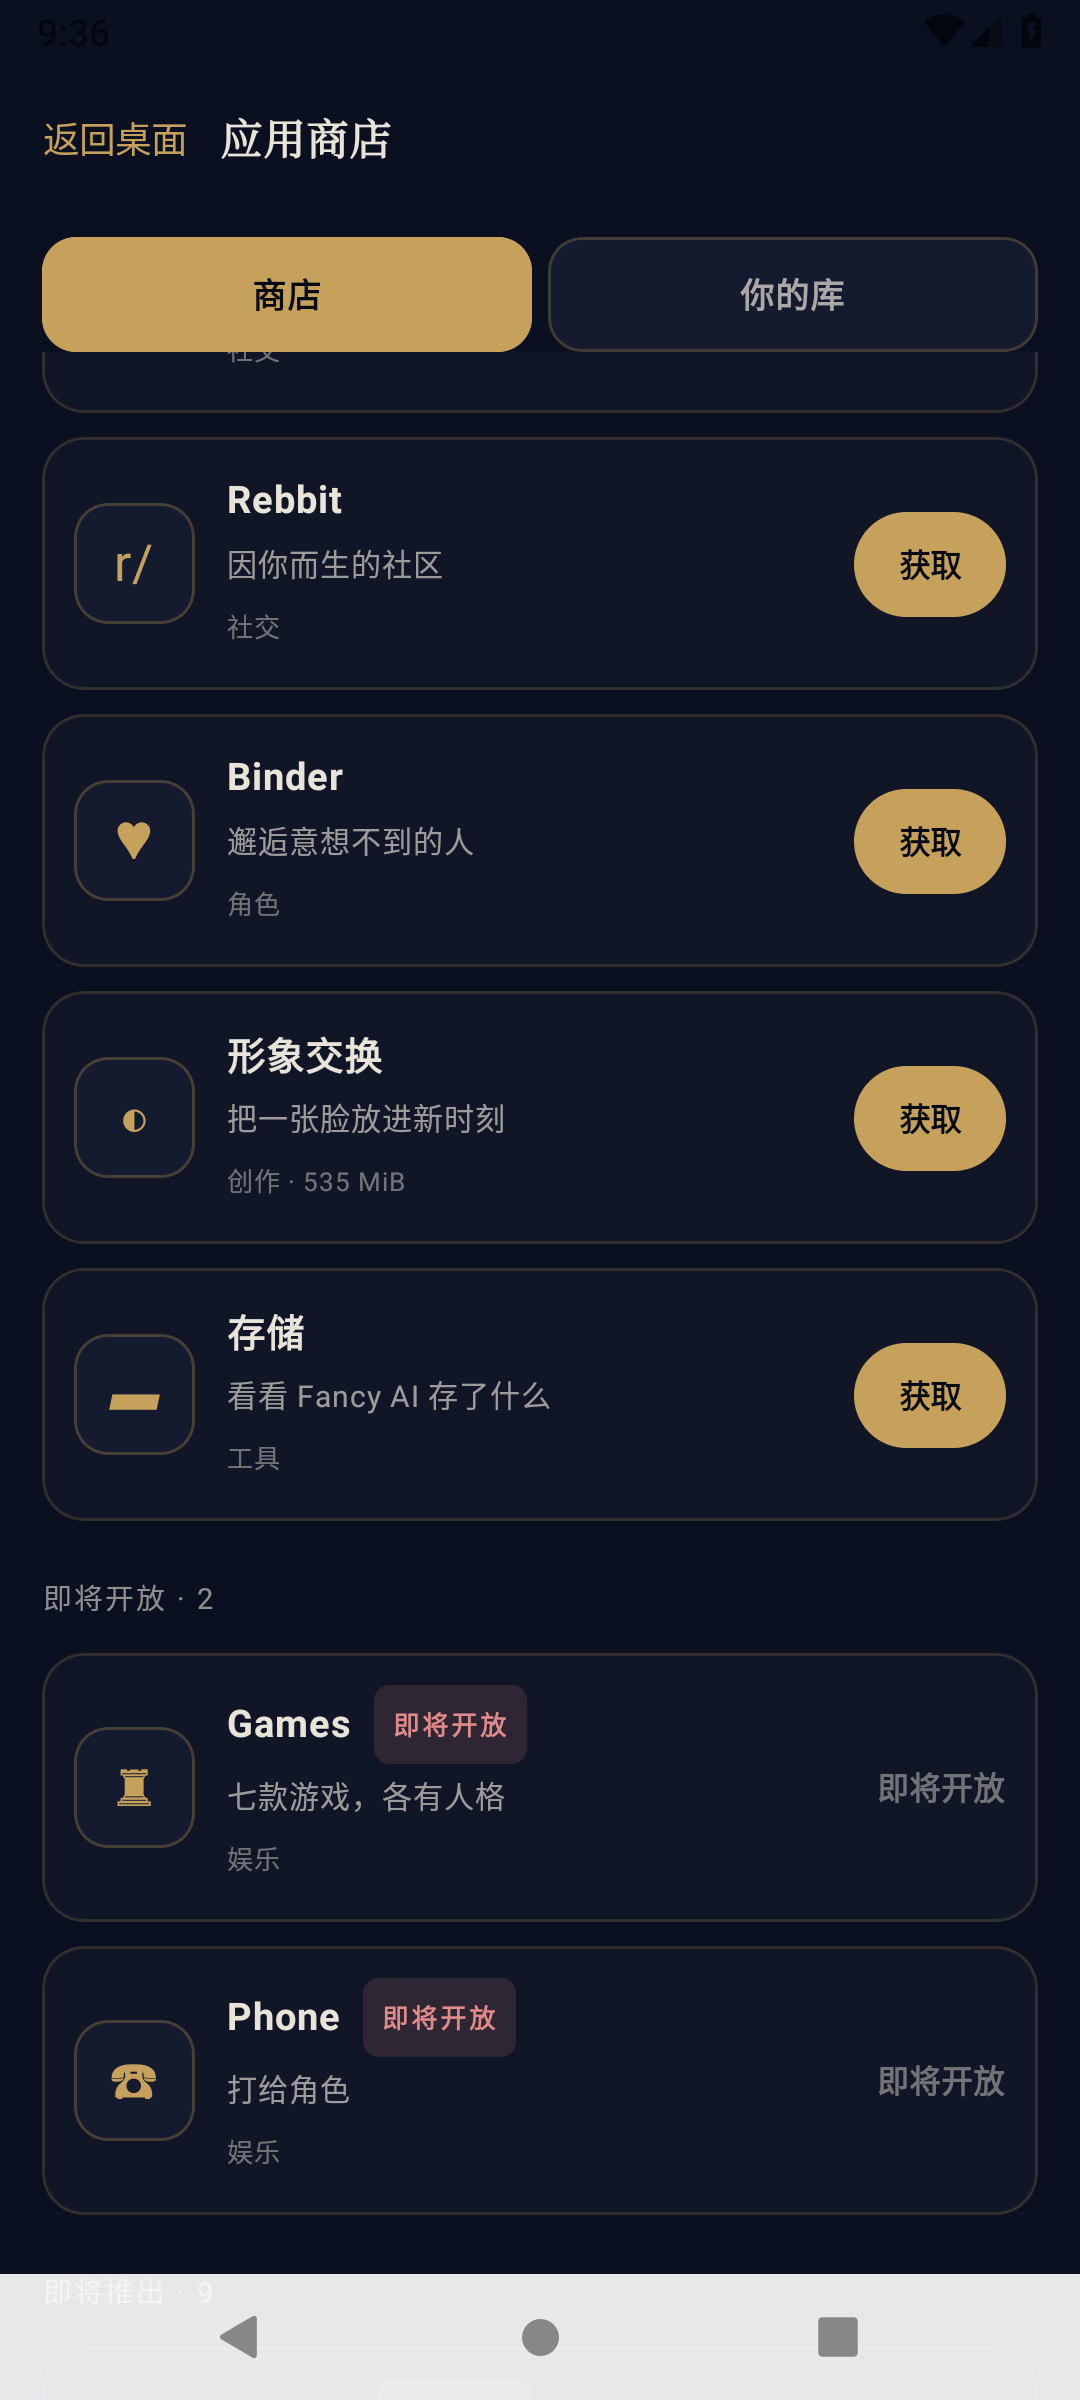
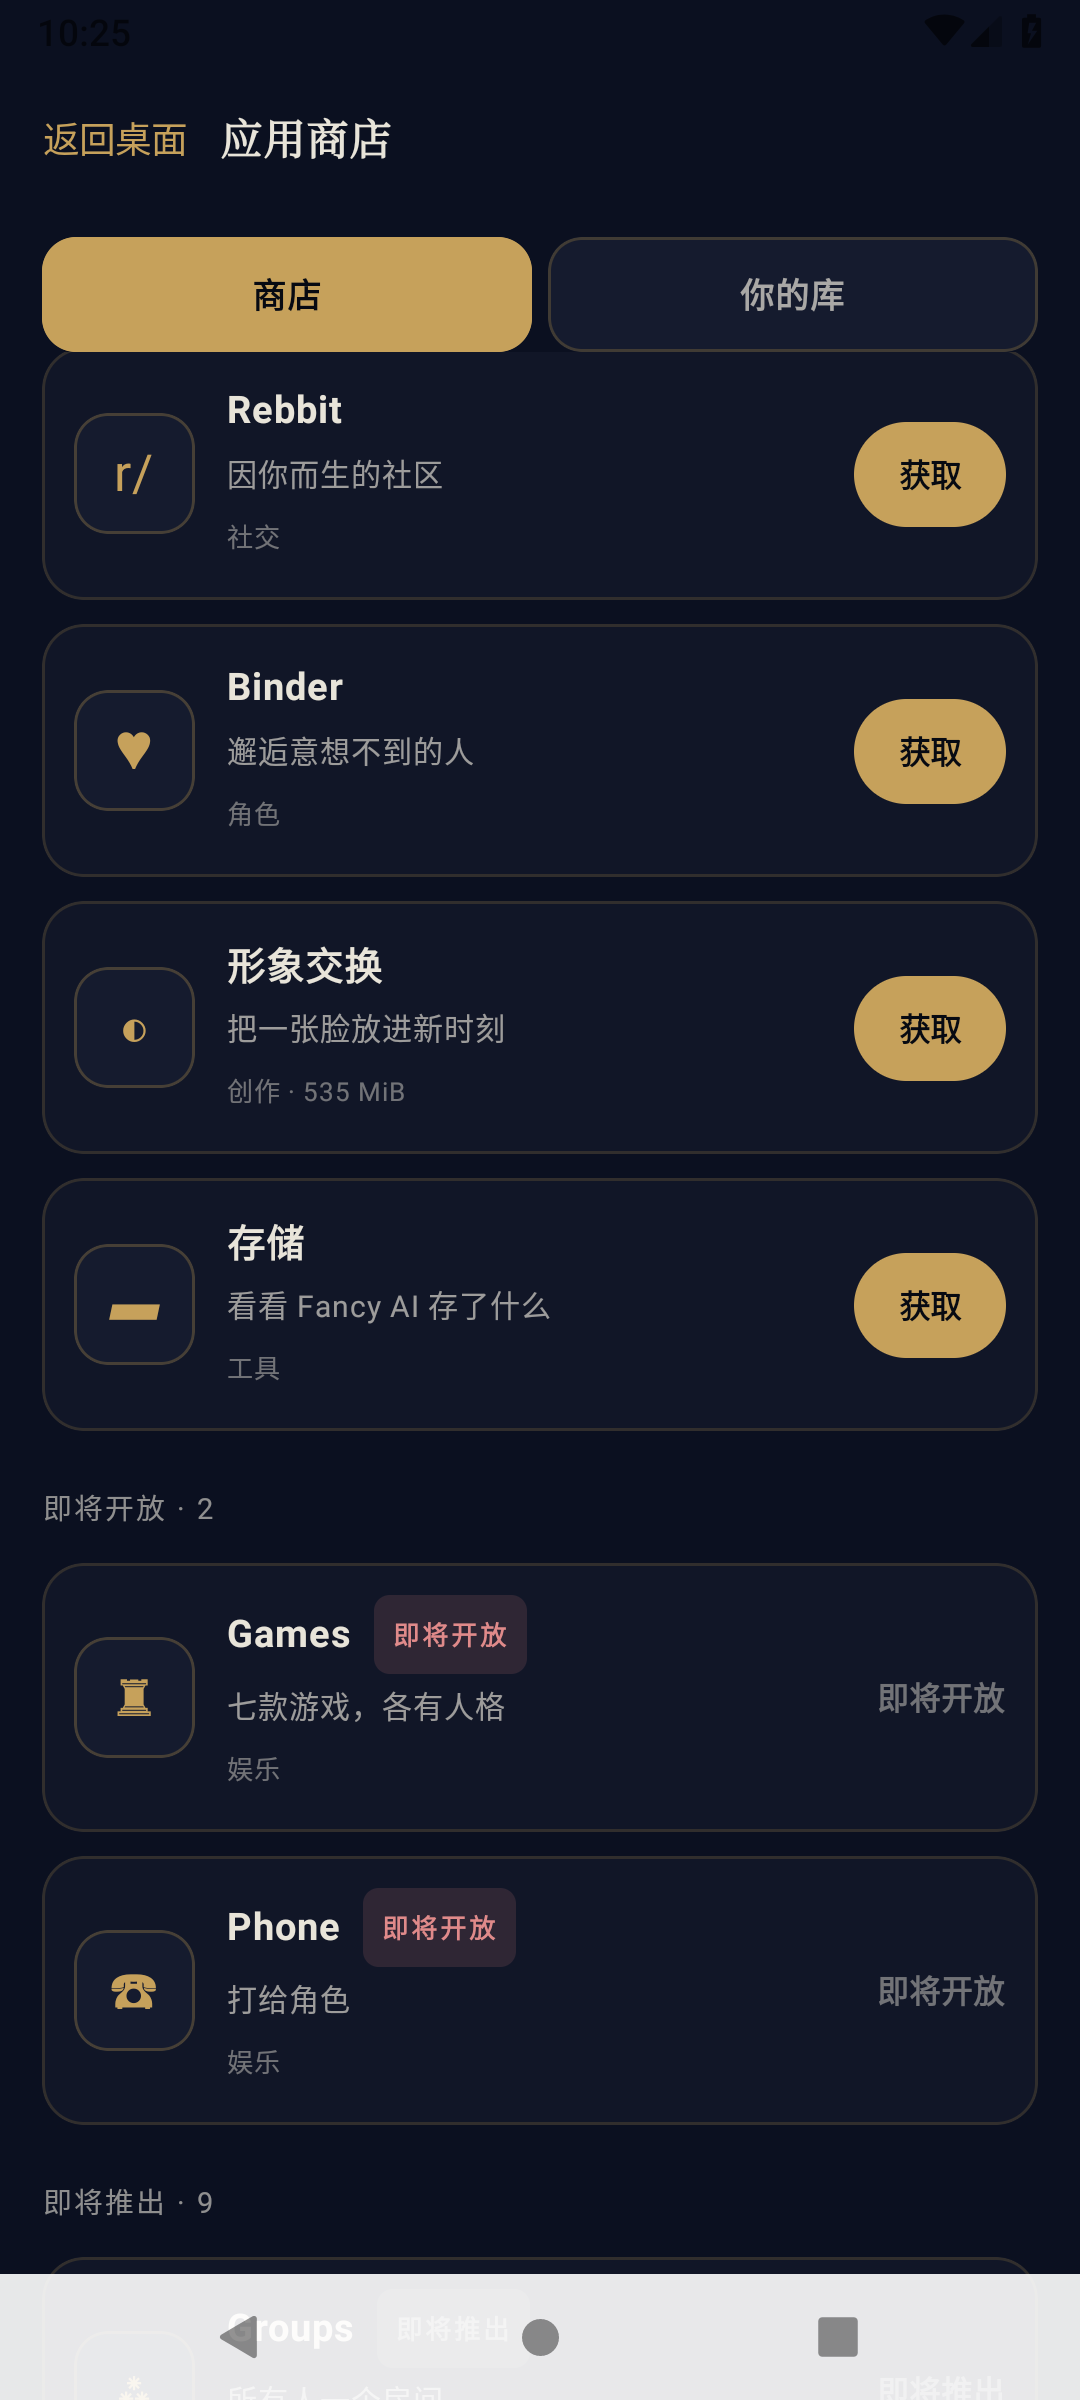
test: 备份快照含 app_install，擦除后安装态清空
WorldBackup.copyDatabaseForBackup 的快照带 INSTALLED/on_home 行；
WorldBackup.eraseAll 后新库 countAppInstalls 为 0。

diff --git a/app/src/androidTest/java/io/github/lzyuuu/ailivesaver/WorldRestoreRecoverySmokeTest.kt b/app/src/androidTest/java/io/github/lzyuuu/ailivesaver/WorldRestoreRecoverySmokeTest.kt
@@ -5,6 +5,7 @@ import androidx.test.ext.junit.runners.AndroidJUnit4
 import android.database.sqlite.SQLiteDatabase
 import java.io.File
 import org.json.JSONObject
+import org.junit.Assert.assertEquals
 import org.junit.Assert.assertFalse
 import org.junit.Assert.assertTrue
 import org.junit.Test
@@ -12,6 +13,34 @@ import org.junit.runner.RunWith
 
 @RunWith(AndroidJUnit4::class)
 class WorldRestoreRecoverySmokeTest {
+    @Test
+    fun backupSnapshotIncludesAppInstallRows() {
+        val context = ApplicationProvider.getApplicationContext<android.content.Context>()
+        val snapshot = File(context.cacheDir, "store-backup-${System.nanoTime()}.db")
+        val now = System.currentTimeMillis()
+        WorldStore(context).use { store ->
+            store.saveAppInstall(
+                PersistedAppInstall("y", InstallStatus.INSTALLED, now, true, 1, "1.0", now),
+            )
+            store.copyDatabaseForBackup(snapshot)
+        }
+        try {
+            SQLiteDatabase.openDatabase(snapshot.path, null, SQLiteDatabase.OPEN_READONLY).use { database ->
+                database.rawQuery(
+                    "SELECT status, on_home FROM app_install WHERE app_id = ?",
+                    arrayOf("y"),
+                ).use { cursor ->
+                    assertTrue(cursor.moveToFirst())
+                    assertEquals("INSTALLED", cursor.getString(0))
+                    assertEquals(1, cursor.getInt(1))
+                }
+            }
+        } finally {
+            WorldStore(context).use { it.deleteAppInstall("y") }
+            snapshot.delete()
+        }
+    }
+
     @Test
     fun copiesAReadableDatabaseSnapshotWhileTheStoreIsOpen() {
         val context = ApplicationProvider.getApplicationContext<android.content.Context>()

diff --git a/app/src/androidTest/java/io/github/lzyuuu/ailivesaver/WorldDataErasureSmokeTest.kt b/app/src/androidTest/java/io/github/lzyuuu/ailivesaver/WorldDataErasureSmokeTest.kt
@@ -5,6 +5,7 @@ import androidx.test.ext.junit.runners.AndroidJUnit4
 import java.io.File
 import java.util.concurrent.CountDownLatch
 import java.util.concurrent.TimeUnit
+import org.junit.Assert.assertEquals
 import org.junit.Assert.assertFalse
 import org.junit.Assert.assertNull
 import org.junit.Assert.assertTrue
@@ -45,6 +46,11 @@ class WorldDataErasureSmokeTest {
             context,
             LocalDreamRunStats(1_000, 100, 512, 512, System.currentTimeMillis()),
         )
+        val now = System.currentTimeMillis()
+        store.saveAppInstall(
+            PersistedAppInstall("y", InstallStatus.INSTALLED, now, true, 1, "1.0", now),
+        )
+        assertEquals(InstallStatus.INSTALLED, store.loadAppInstall("y")!!.status)
 
         val finished = CountDownLatch(1)
         var result: Result<Unit>? = null
@@ -65,5 +71,9 @@ class WorldDataErasureSmokeTest {
         )
         assertTrue(ProviderStore(context).load().apiKey.isEmpty())
         assertNull(LocalDreamStatsStore.load(context))
+        WorldStore(context).use { fresh ->
+            assertEquals(0, fresh.countAppInstalls())
+            assertNull(fresh.loadAppInstall("y"))
+        }
     }
 }
